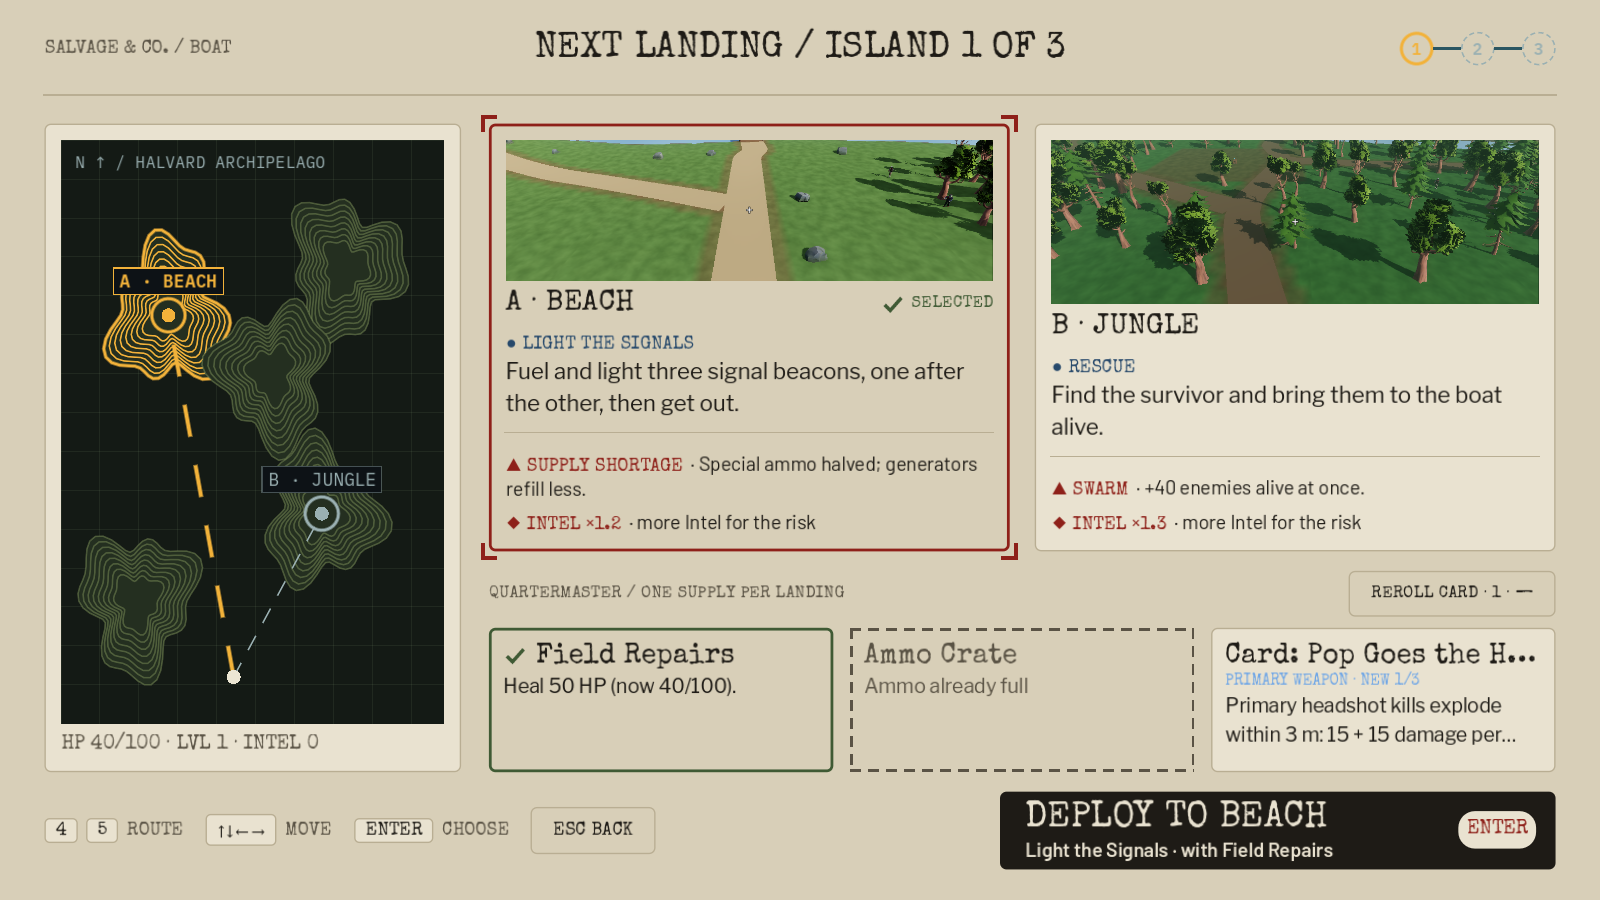
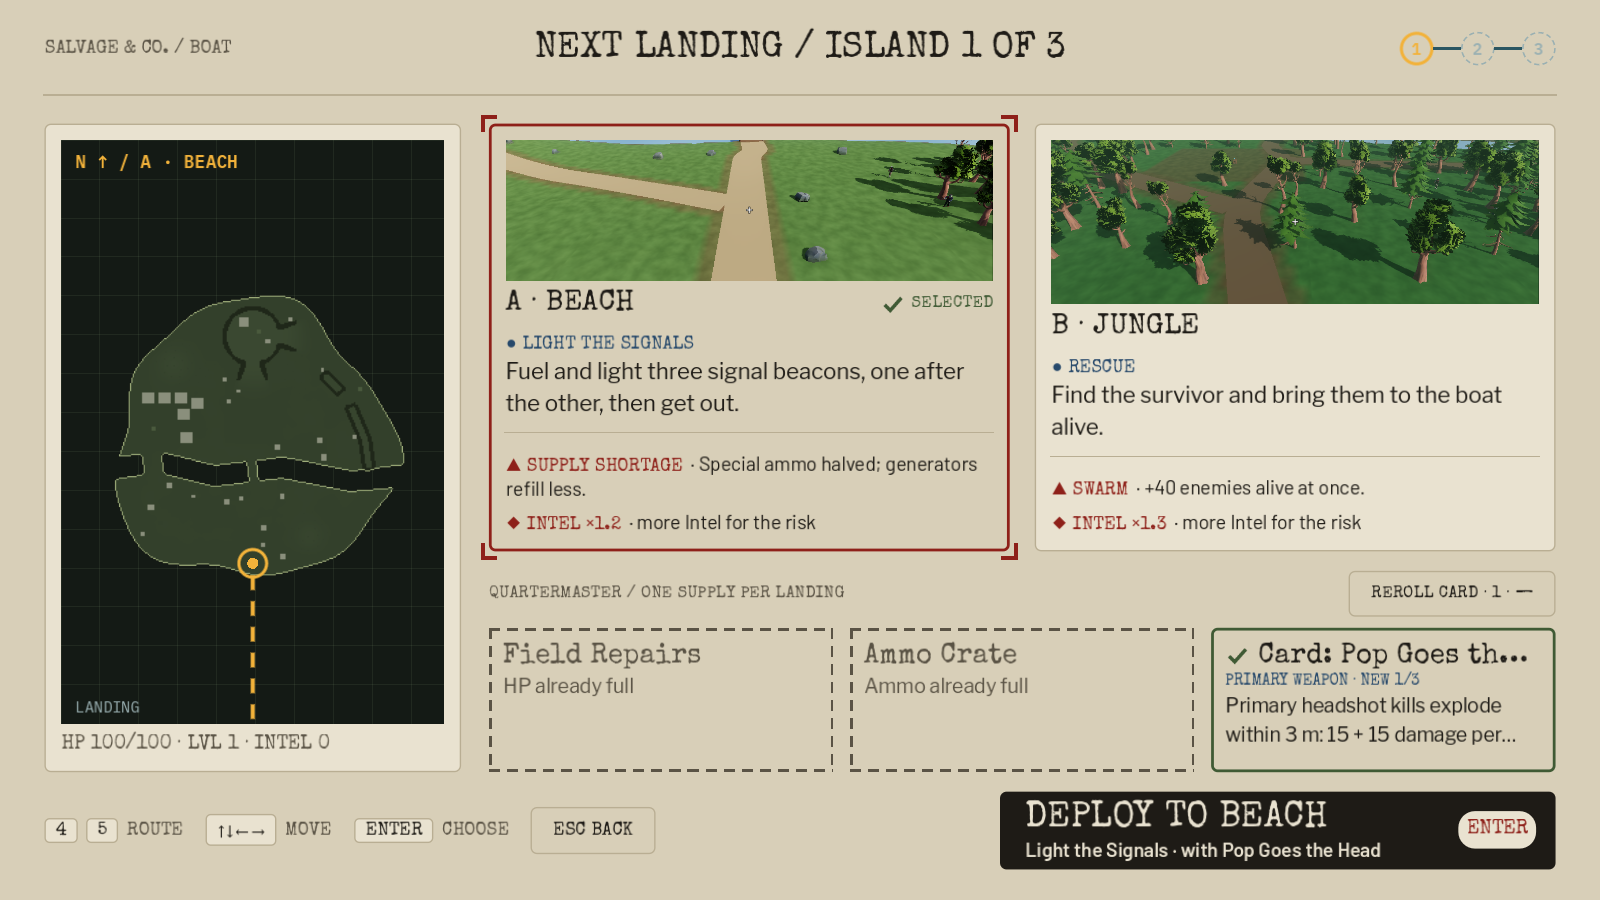
feat(ui): the boat's chart shows the real island of the chosen route
RouteMap draws the hand-made island's grid picture as a nautical chart, with the landing at the boat; a biome without a hand-made island keeps the decorative chart. Boat, menu and smoke tests pass.

diff --git a/TODO.md b/TODO.md
@@ -108,7 +108,7 @@ Bloqueados por mecânica (não são animação pendente; motivo em `docs/tech/LO
   CARDS próprio, três números por arma); o LOADOUT não foi estreitado porque a folha dos perks
   usa a mesma coluna. Barco e debrief em papel a 2026-11-15. Feitos o título e o armory (classe com a fotografia
   3D, armas como formulário de requisição, perks num quadro de cortiça), com a Special Elite e a
-  Libre Franklin; capturas em `docs/design/dossier_20261111/`. Por fazer: cartas,
+  Libre Franklin; capturas em `docs/design/dossier_20261111/`. Cartas de nível, pausa e diálogos em papel a 2026-11-15 (ferramentas DEV ficam escuras). Por fazer:
   diálogos (run, definições, arquivo) e pausa, que ainda usam o tema escuro. Nos cartões dos
   perks os nomes continuam na Barlow Condensed: dois nomes à máquina não cabem num cartão;
   o mockup tem um nome por cartão, e isso pede mudar o cartão (`game/ui/perk_node_view.gd`).
@@ -123,8 +123,9 @@ Bloqueados por mecânica (não são animação pendente; motivo em `docs/tech/LO
   jogar. Barco de extração e cais preparados e em jogo a 2026-11-14 (todas as ilhas com barco):
   ver a jogar e decidir se a ponte usa as
   mesmas secções do cais. Seguem-se vegetação maior, casas e torre, e falésias.
-- [ ] Vista geral do mapa antes de partir: desenhar a ilha real a partir da grelha da cena
-  (`HandmadeIsland.grid_image`) em vez das manchas de `game/ui/route_map.gd`.
+- [ ] Vista geral do mapa antes de partir: feita a 2026-11-15. O barco desenha a ilha real da rota
+  escolhida como carta náutica, a partir do `<cena>_grid.png` (`RouteMap.island_chart`). Por fazer:
+  regenerar o `_grid.png` sempre que a ilha muda (hoje é o Check map que o grava), e ver a jogar.
 - [ ] Objetivos variados: feito em 2026-11-10 na `beach_01` (seis geradores, cada run usa três,
   `IslandRun.pick_generators`) e no Exfil (três pontos de extração, um por seed, revelado aos
   10:00); teste em `tests/test_objective_pools.gd`. Por fazer: ver os três sítios novos da
